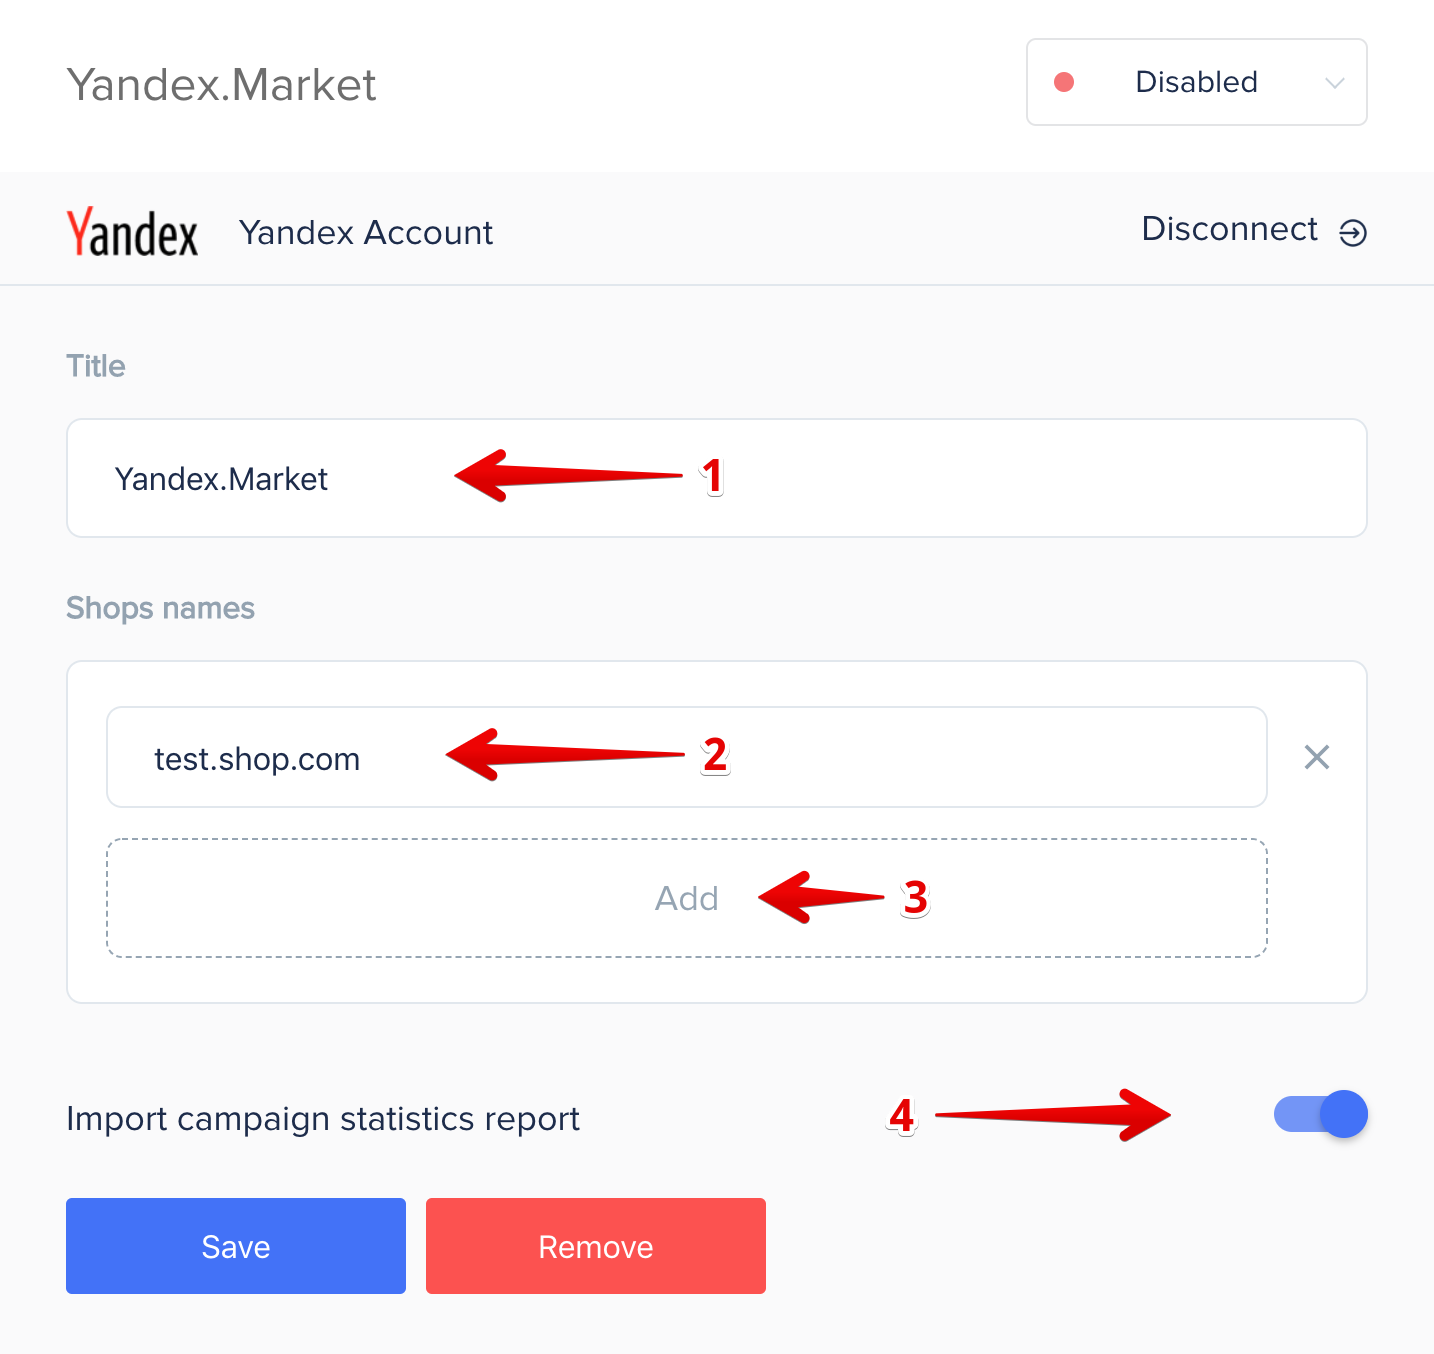
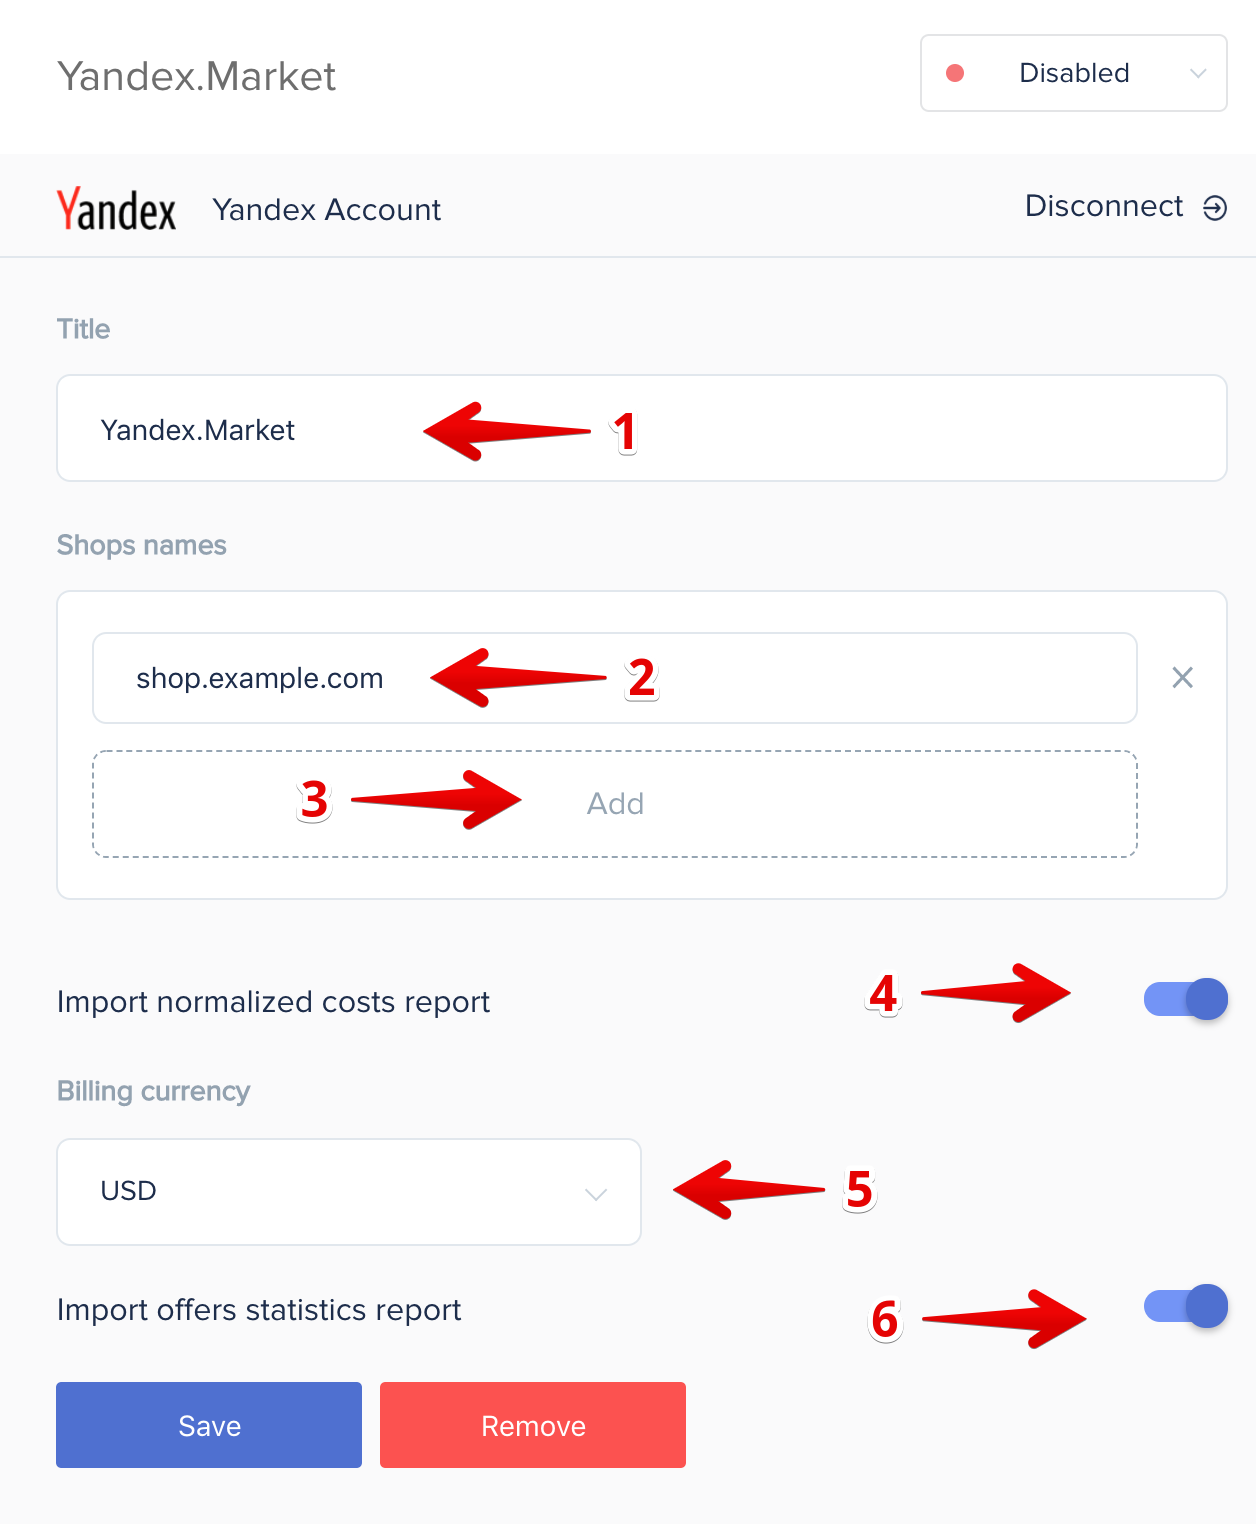
Yandex.Market docs update

diff --git a/_docs/datasources/yandex market.md b/_docs/datasources/yandex market.md
@@ -25,7 +25,11 @@ After authorization you need to set the data source parameters.
 
 (3) Click Add if need to add shop.
 
-(4) Enable option for import campaign statistics report.
+(4) Enable option for import normalized costs report.
+
+(5) If normalized costs report enabled, you can select billing currency of report.
+
+(6) Enable option for import offers statistics report.
 
 ---
 
@@ -43,7 +47,9 @@ The "Disconnect" button (4) is used to revoke the authorization data. The settin
 
 After the data source runs, the following tables will be created in BigQuery:
 
-yandexMarketCampaignStatistics_{shop_id}_{DATE} - report containing information by campaigns offers (clicks, spending), see table structure bellow.
+yandexMarketCampaignStatistics_{shop_id}_{DATE} - report containing information by shop offers (clicks, spending), see table structure bellow.
+
+yandexMarketCosts_{shop_id}_{DATE} - report containing information on clicks, impressions and cost of the shop offers
 
 
 ### Table structure for yandexMarketCampaignStatistics
@@ -54,3 +60,17 @@ offer_id | STRING | REQUIRED
 spending | FLOAT | REQUIRED
 clicks | INTEGER | REQUIRED
 campaign_name | STRING | REQUIRED
+
+
+### Table structure for yandexMarketCosts
+
+Field name|Type|Mode
+--- | --- | ---
+cost | FLOAT | REQUIRED
+clicks | INTEGER | NULLABLE
+impressions | INTEGER | NULLABLE
+utmTerm | STRING | NULLABLE
+utmCampaign | STRING | NULLABLE
+utmContent | STRING | NULLABLE
+utmMedium | STRING | REQUIRED
+utmSource | STRING | REQUIRED
